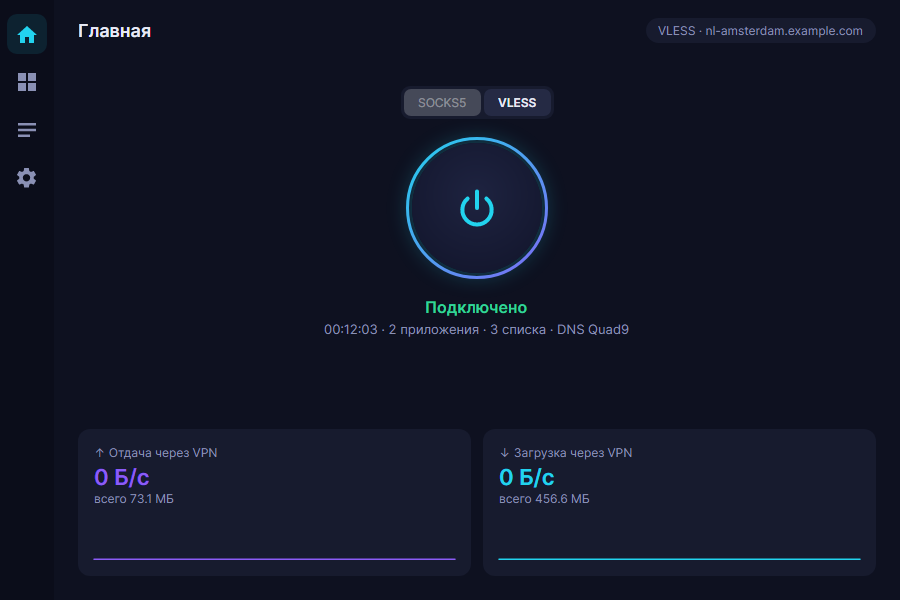
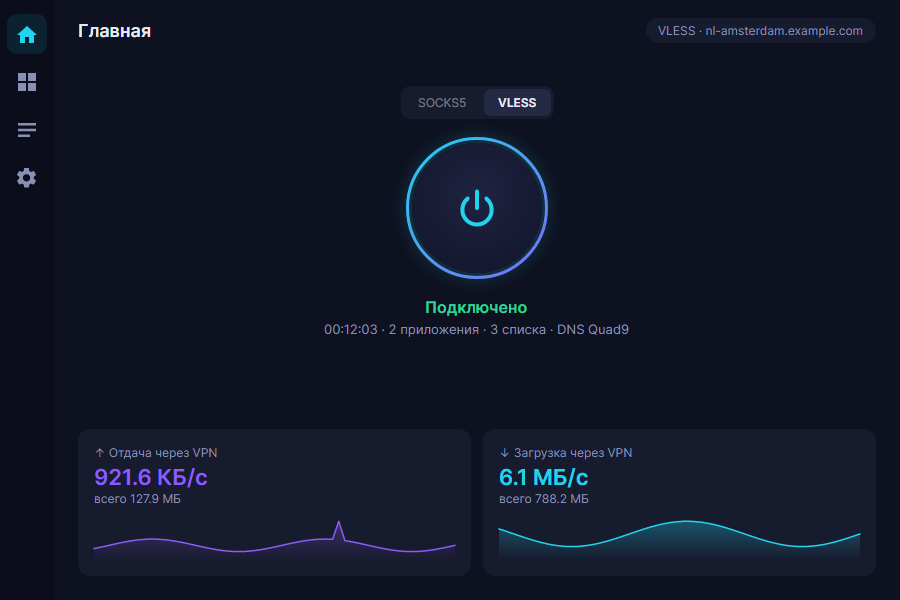
Polish: disabled mode switch, H.O.D.C.A note, fresh README shots

diff --git a/src/ViviTune/Catalogs.cs b/src/ViviTune/Catalogs.cs
@@ -43,7 +43,7 @@ namespace ViviTune
             new("geoblock", "GeoBlock", "Категории", "Сайты, закрывающиеся для российских адресов", true),
             new("news", "News", "Категории", "Новостные сайты", true),
             new("porn", "Porn", "Категории", "Сайты для взрослых", true),
-            new("hodca", "H.O.D.C.A", "Категории", "Сайты Hetzner, OVH, DigitalOcean, CloudFront, Akamai", false),
+            new("hodca", "H.O.D.C.A", "Категории", "Сайты Hetzner, OVH, DigitalOcean, Cloudflare, AWS, Akamai", false),
             new("youtube", "YouTube", "Сервисы", "Видео и домены Google для YouTube", true),
             new("discord", "Discord", "Сервисы", AlsoInRu, false),
             new("telegram", "Telegram", "Сервисы", "Подсети и домены Telegram", false),

diff --git a/src/ViviTune.Shots/Program.cs b/src/ViviTune.Shots/Program.cs
@@ -84,6 +84,12 @@ s.SetVless("vless://3f1c2a9e-7b4d-4c1e-9a55-0d6f8e2b7c41@nl-amsterdam.example.co
 s.SyncLists(["russia_inside", "telegram", "google_ai"]);
 s.State = ConnState.Connected;
 s.DetailText = ViewState.DetailVless(new TimeSpan(0, 12, 3), 2, 3, "Quad9");
+for (int i = 0; i < 60; i++) // демо-история скорости, как в SOCKS5
+{
+    double up = 0.9 * MiB * (1 + 0.45 * Math.Sin((i - 59) / 4.5)) + (i == 40 ? 1.2 * MiB : 0);
+    double down = 6.1 * MiB * (1 + 0.5 * Math.Sin((i - 59) / 6.0));
+    s.PushSpeed(new Speed(up, down, (long)up, (long)down));
+}
 Shot(NavPage.Home, "home-vless-connected.png");
 s.State = ConnState.Disconnected;
 s.DetailText = "";

diff --git a/README.md b/README.md
@@ -114,7 +114,7 @@ uci commit podkop
 
 ![Вкладка «Сайты»](docs/vless-sites.png)
 
-Некоторые списки входят в другие (например, Anime, Block и News уже входят в Russia inside): такие строки в интерфейсе отмечены «уже входит в …», отдельно включать их не нужно.
+Когда включён Russia inside, списки, которые в него входят (Anime, Block, GeoBlock, News, Porn, YouTube и др.), отмечены «уже входит в Russia inside», отдельно включать их не нужно.
 
 ### Списки ITDog
 
